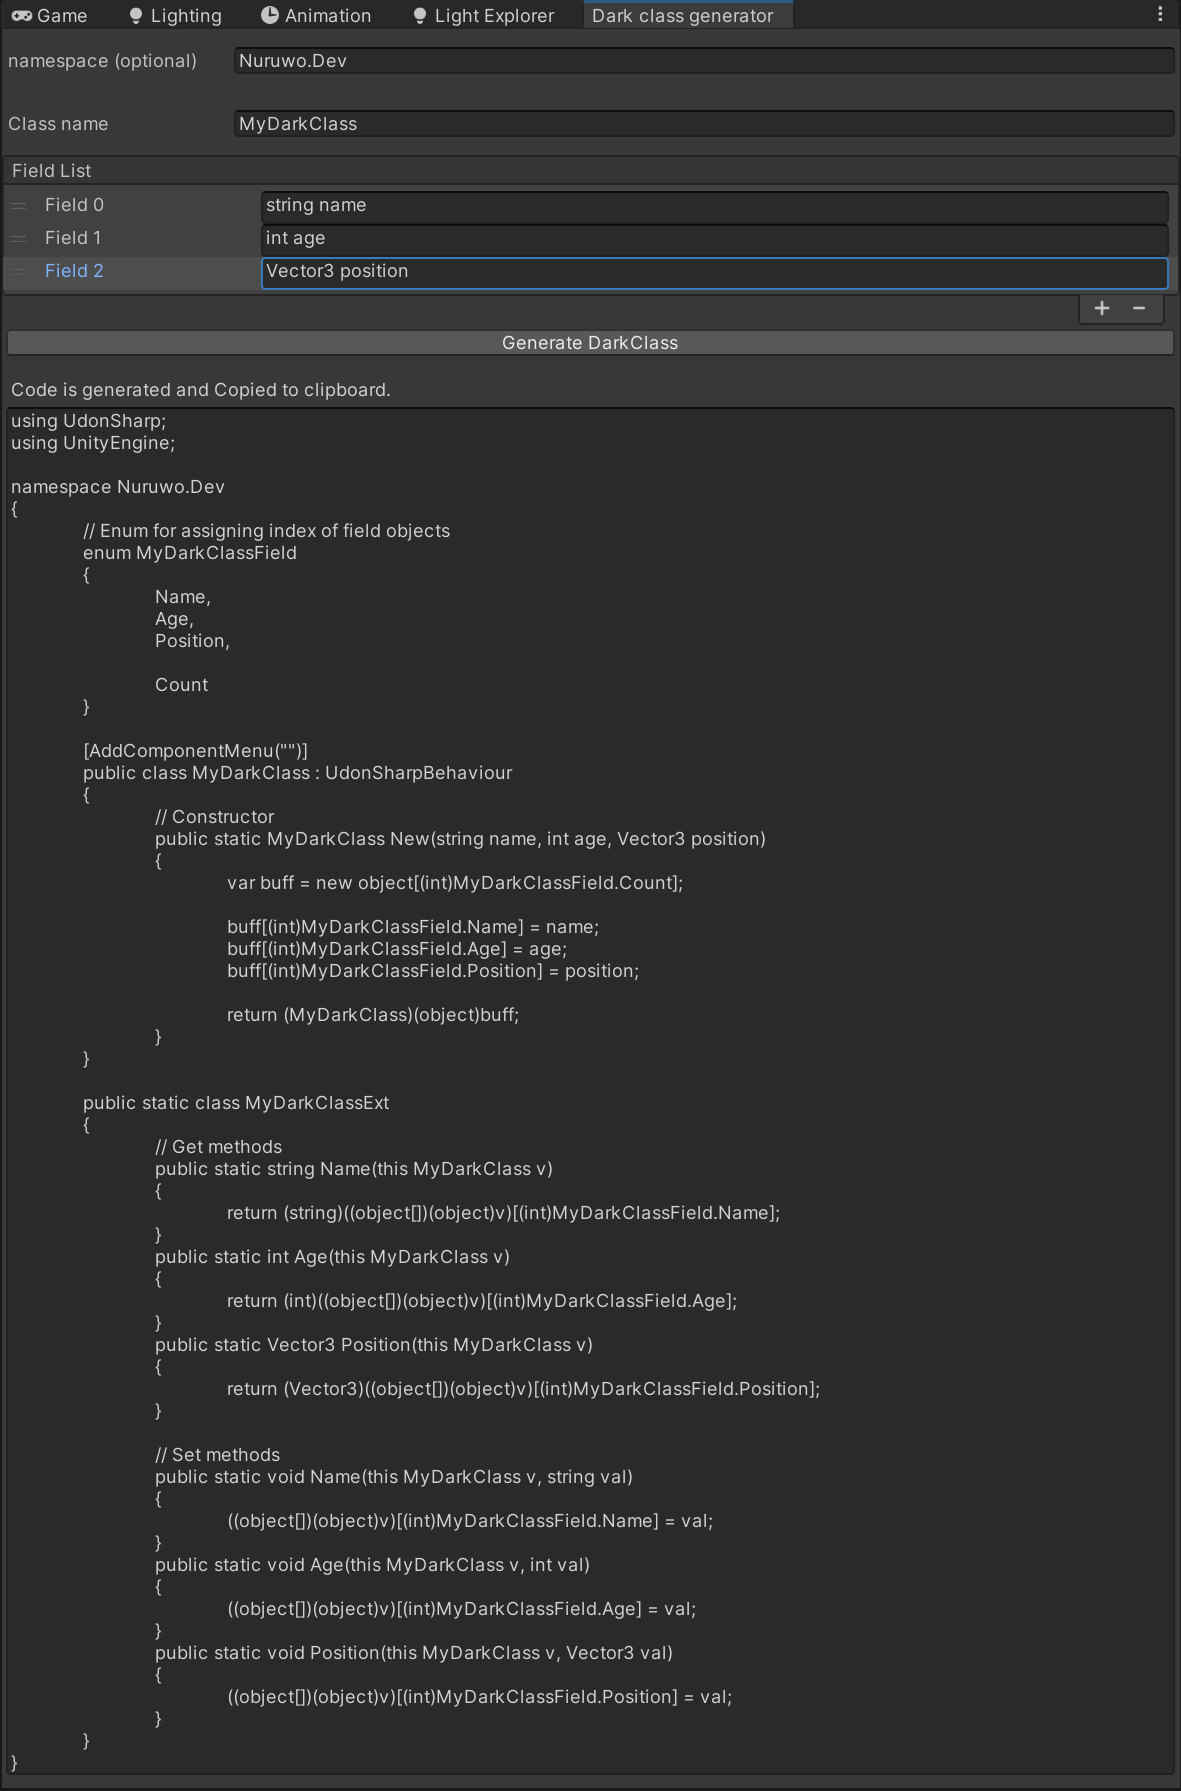
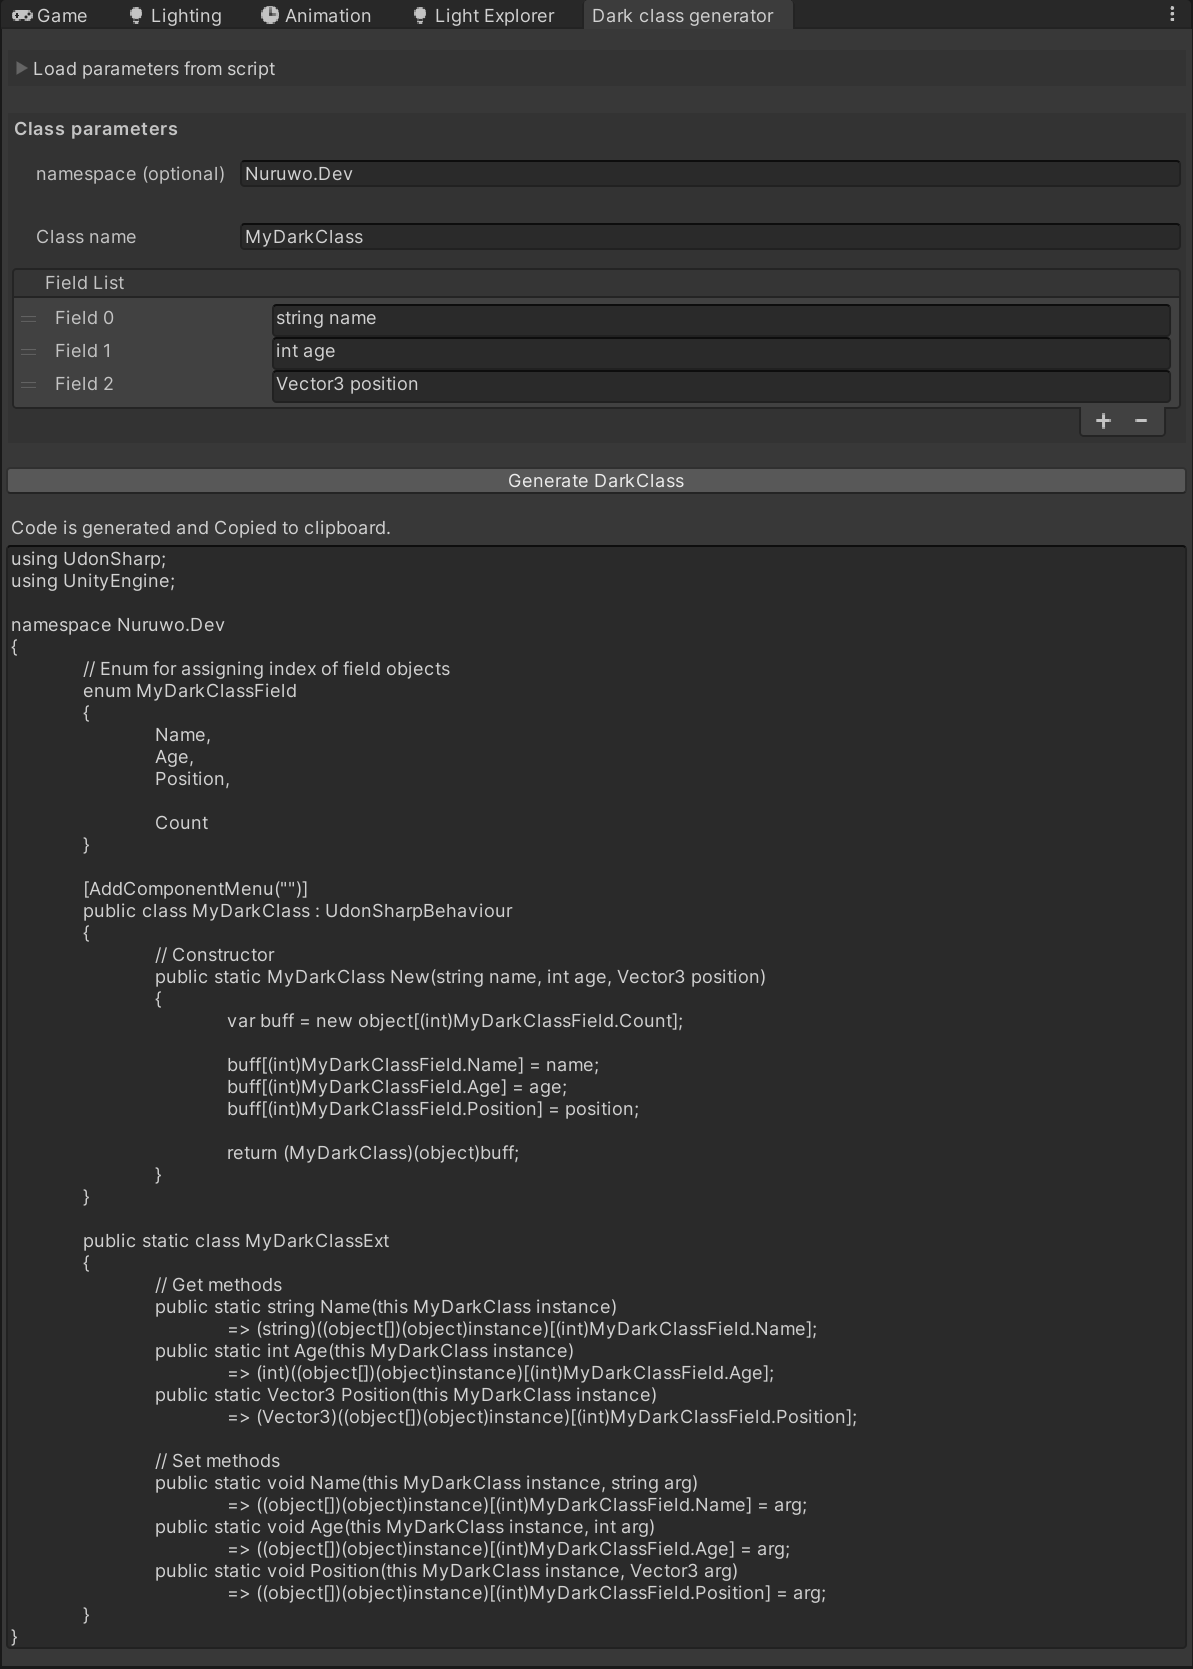
add load function

diff --git a/Editor/DarkClassGeneratorEditorWindow.cs b/Editor/DarkClassGeneratorEditorWindow.cs
@@ -1,6 +1,8 @@
 #if UNITY_EDITOR
 using System;
 using System.Collections.Generic;
+using System.Data;
+using System.Linq;
 using System.Text;
 using System.Text.RegularExpressions;
 using UnityEditor;
@@ -12,14 +14,17 @@ namespace Nuruwo.Tool
     public class DarkClassGeneratorEditorWindow : EditorWindow
     {
         /*------------------------------private values----------------------------------*/
+        private bool _foldIsOpen = false;
+
+        private TextAsset _textAsset;
+        private string _prevScriptName = string.Empty;
         private ReorderableList _reorderableList;
         private string _className = string.Empty;
         private string _nameSpace = string.Empty;
         private List<string> _fieldList = new List<string>() { "int value" };
-        private Vector2 _scrollPosition = Vector2.zero; //for textArea scroll
         private string _result = string.Empty;
-        private string _code = string.Empty;
-
+        private string _generatedCode = string.Empty;
+        private Vector2 _scrollPosition = Vector2.zero; //for textArea scroll
         /*------------------------------Initialize------------------------------*/
         [MenuItem("Tools/Nuruwo/DarkClassGenerator", false, 1)]
         public static void Open()
@@ -30,26 +35,47 @@ namespace Nuruwo.Tool
 
         private void OnEnable()
         {
-            _reorderableList = new ReorderableList(
-              elements: _fieldList,
-              elementType: typeof(string),
-              draggable: true,
-              displayHeader: true,
-              displayAddButton: true,
-              displayRemoveButton: true
-            );
-            _reorderableList.drawHeaderCallback = rect => EditorGUI.LabelField(rect, "Field List");
-            _reorderableList.elementHeightCallback = index => 20;
-            _reorderableList.drawElementCallback = (rect, index, isActive, isFocused) =>
-            {
-                _fieldList[index] = EditorGUI.TextField(rect, "  Field " + index, _fieldList[index]);
-            };
+            UpdateReorderableList(_fieldList);
         }
 
         /*------------------------------UI Look---------------------------------*/
 
         private void OnGUI()
         {
+            //load from script
+            EditorGUILayout.Space(10);
+            EditorGUILayout.BeginVertical(GUI.skin.box);
+            _foldIsOpen = EditorGUILayout.Foldout(_foldIsOpen, "Load parameters from script");
+            if (_foldIsOpen)
+            {
+                EditorGUI.indentLevel++;
+                EditorGUILayout.Space(10);
+                EditorGUILayout.BeginHorizontal();
+                _textAsset = (TextAsset)EditorGUILayout.ObjectField("Script to load", _textAsset, typeof(TextAsset), false);
+                var scriptName = _textAsset != null ? _textAsset.name : string.Empty;
+                if (!string.IsNullOrEmpty(scriptName) && _prevScriptName != scriptName)
+                {
+                    _prevScriptName = scriptName;   //script is changed
+                    LoadScript(_textAsset.text);
+                }
+                using (new EditorGUI.DisabledScope(string.IsNullOrEmpty(scriptName)))
+                {
+                    if (GUILayout.Button("Reload script"))
+                    {
+                        LoadScript(_textAsset.text);
+                    }
+                }
+                EditorGUILayout.EndHorizontal();
+                EditorGUILayout.Space(10);
+                EditorGUI.indentLevel--;
+            }
+            EditorGUILayout.EndVertical();
+            EditorGUILayout.Space(10);
+
+            EditorGUILayout.BeginVertical(GUI.skin.box);
+            GUILayout.Label("Class parameters", EditorStyles.boldLabel);
+            EditorGUI.indentLevel++;
+
             //namespace
             EditorGUILayout.Space(10);
             _nameSpace = EditorGUILayout.TextField("namespace (optional)", _nameSpace);
@@ -62,6 +88,9 @@ namespace Nuruwo.Tool
 
             //Augment list
             _reorderableList.DoLayoutList();
+            EditorGUI.indentLevel--;
+            EditorGUILayout.EndVertical();
+            EditorGUILayout.Space(10);
 
             //Generate button
             var canGenerate = !string.IsNullOrEmpty(_className) && _fieldList.Count > 0 && !string.IsNullOrEmpty(_fieldList[0]);
@@ -70,9 +99,9 @@ namespace Nuruwo.Tool
                 //Generate 
                 if (GUILayout.Button("Generate DarkClass"))
                 {
-                    _code = GenerateDarkClass();
+                    _generatedCode = GenerateDarkClass();
                     //clip board
-                    EditorGUIUtility.systemCopyBuffer = _code;
+                    EditorGUIUtility.systemCopyBuffer = _generatedCode;
                     _result = "Code is generated and Copied to clipboard.";
                 }
             }
@@ -85,9 +114,11 @@ namespace Nuruwo.Tool
             {
                 wordWrap = true
             };
-            GUILayout.TextArea(_code, textAreaStyle);
+            GUILayout.TextArea(_generatedCode, textAreaStyle);
             EditorGUILayout.EndScrollView();
         }
+
+        /*------------------------------Generate DarkClass-----------------------------*/
 
         private string GenerateDarkClass()
         {
@@ -243,10 +274,8 @@ namespace Nuruwo.Tool
                 var argumentType = args[0];
                 var pArgumentName = ToPascal(args[1]);
 
-                sb.AppendLine($"public static {argumentType} {pArgumentName}(this {pClassName} v)");
-                sb.AppendLine($"{{");
-                sb.AppendLine($"\treturn ({argumentType})((object[])(object)v)[(int){enumName}.{pArgumentName}];");
-                sb.AppendLine($"}}");
+                sb.AppendLine($"public static {argumentType} {pArgumentName}(this {pClassName} instance)");
+                sb.AppendLine($"\t=> ({argumentType})((object[])(object)instance)[(int){enumName}.{pArgumentName}];");
             }
             return sb.ToString();
         }
@@ -261,10 +290,8 @@ namespace Nuruwo.Tool
                 var argumentType = args[0];
                 var pArgumentName = ToPascal(args[1]);
 
-                sb.AppendLine($"public static void {pArgumentName}(this {pClassName} v, {argumentType} val)");
-                sb.AppendLine($"{{");
-                sb.AppendLine($"\t((object[])(object)v)[(int){enumName}.{pArgumentName}] = val;");
-                sb.AppendLine($"}}");
+                sb.AppendLine($"public static void {pArgumentName}(this {pClassName} instance, {argumentType} arg)");
+                sb.AppendLine($"\t=> ((object[])(object)instance)[(int){enumName}.{pArgumentName}] = arg;");
             }
             return sb.ToString();
         }
@@ -280,12 +307,111 @@ namespace Nuruwo.Tool
             return sb.ToString();
         }
 
+        /*------------------------------Load script---------------------------------*/
+        private void LoadScript(string text)
+        {
+            Debug.Log("LoadScript: " + text);
+            var rows = text.Replace("\r\n", "\n").Split(new[] { '\n', '\r' });
+            text = text.Replace("\r\n", "\n").Replace("\n", " "); //remove line break and join with space
+
+            //namespace
+            var namespaceString = ExtractNameSpace(text);
+            if (!string.IsNullOrEmpty(namespaceString)) { _nameSpace = namespaceString; }
+
+            //className
+            var classNameString = ExtractClassName(text);
+            if (!string.IsNullOrEmpty(classNameString)) { _className = classNameString; }
+
+            //Fields
+            if (!string.IsNullOrEmpty(classNameString))
+            {
+                var fieldStrings = ExtractFields(text, classNameString);
+                if (fieldStrings.Count > 0) { UpdateReorderableList(fieldStrings); }
+            }
+        }
+
+        private List<string> ExtractFields(string text, string className)
+        {
+            var fields = new List<string>();
+
+            var matches = Regex.Matches(text, @"\s*public\s+static\s+" + className + @"\s+New\s*\([^\)]+\)");
+            if (matches.Count() <= 0) { return fields; }
+            var match = matches[0].Value.Trim();
+            if (!string.IsNullOrEmpty(match))
+            {
+                var startIndex = match.IndexOf("(");
+                var endIndex = match.IndexOf(")");
+                var src = match.Substring(startIndex + 1, endIndex - startIndex - 1);
+                var words = Regex.Split(src, @"\s*,\s*");
+                if (words.Length > 0)
+                {
+                    foreach (var word in words)
+                    {
+                        Debug.Log(word);
+                    }
+                    fields.AddRange(words);
+                }
+            }
+
+            return fields;
+        }
+
+        private string ExtractClassName(string text)
+        {
+            var matches = Regex.Matches(text, @"\s*public\s+class\s+([a-zA-Z0-9_]+)\s+:");
+            if (matches.Count() <= 0) { return string.Empty; }
+            var match = matches[0].Value.Trim();
+            if (!string.IsNullOrEmpty(match))
+            {
+                var words = Regex.Split(match, @"\s+");
+                var classIndex = Array.IndexOf(words, "class");
+                if (words.Length >= classIndex + 1)
+                {
+                    return words[classIndex + 1];
+                }
+            }
+            return string.Empty;
+        }
+
+        private string ExtractNameSpace(string text)
+        {
+            var matches = Regex.Matches(text, @"\s*namespace\s+([a-zA-Z0-9_.]+)\s");
+            if (matches.Count() <= 0) { return string.Empty; }
+            var match = matches[0].Value.Trim();
+            if (!string.IsNullOrEmpty(match))
+            {
+                var words = Regex.Split(match, @"\s+");
+                if (words.Length >= 2)
+                {
+                    return words[1];
+                }
+            }
+            return string.Empty;
+        }
+
+        private void UpdateReorderableList(List<string> list)
+        {
+            _fieldList = list;
+            _reorderableList = new ReorderableList(
+              elements: _fieldList,
+              elementType: typeof(string),
+              draggable: true,
+              displayHeader: true,
+              displayAddButton: true,
+              displayRemoveButton: true
+            );
+            _reorderableList.drawHeaderCallback = rect => EditorGUI.LabelField(rect, "Field List");
+            _reorderableList.elementHeightCallback = index => 20;
+            _reorderableList.drawElementCallback = (rect, index, isActive, isFocused) =>
+            {
+                _fieldList[index] = EditorGUI.TextField(rect, "  Field " + index, _fieldList[index]);
+            };
+        }
+
+        /*------------------------------Utility----------------------------------*/
         private static string ToPascal(string text)
         {
-            return Regex.Replace(
-                text.Replace("_", " "),
-                @"\b[a-z]",
-                match => match.Value.ToUpper()).Replace(" ", "");
+            return Regex.Replace(text.Replace("_", " "), @"\b[a-z]", match => match.Value.ToUpper()).Replace(" ", "");
         }
     }
 }

diff --git a/README.md b/README.md
@@ -1,12 +1,13 @@
-# vrchat-dark-class-generator
-DarkClass is to make your custom UdonSharp class used in VRChat
+# DarkClass generator for VRChat
+DarkClass is to make your custom UdonSharp class
 
-
+## Generate your DarkClass
 You can call up this tool by clicking <Tools/Nuruwo/DarkClassGenerator> in the Editor menu.
 As shown in the image, enter these items and press the button to generate the code.
 
-<kbd><img src="ReadMeImages/usage_example.png" alt="" width="700"/></kbd><br><br>
+<kbd><img src="ReadMeImages/usage_example.png" alt="" width="800"/></kbd><br><br>
 
+## Usage generated DarkClass in your UdonSharp scripts
 Generated class can be used in other UdonSharp scripts as follows.
 
 ```cs
@@ -35,5 +36,11 @@ namespace Nuruwo.Dev
 }
 ```
 
+## Load parameters from a DarkClass script file
+Open the fold as shown in the image and specify aDarkClass script to extract each parameter.
+
+<kbd><img src="ReadMeImages/load_parameters.png" alt="" width="800"/></kbd><br><br>
+
+## Reference
 See detail technical article
 https://power-of-tech.hatenablog.com/entry/2024/06/12/191828
